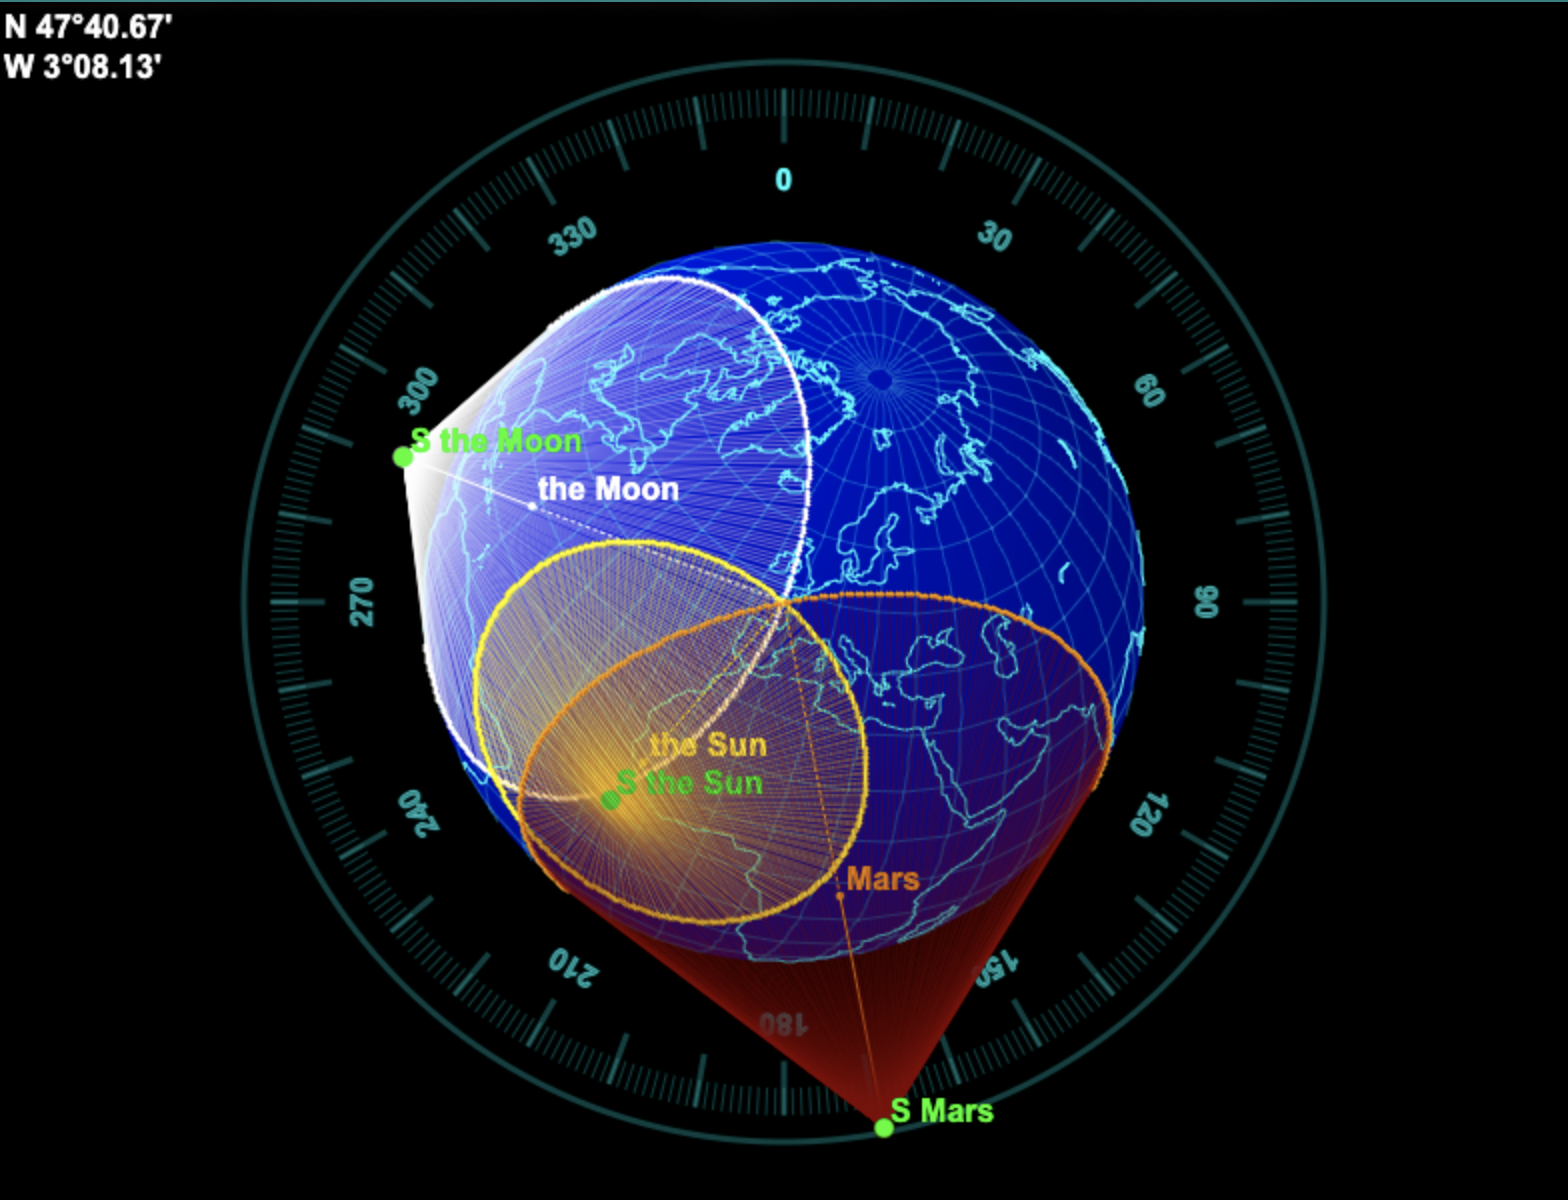
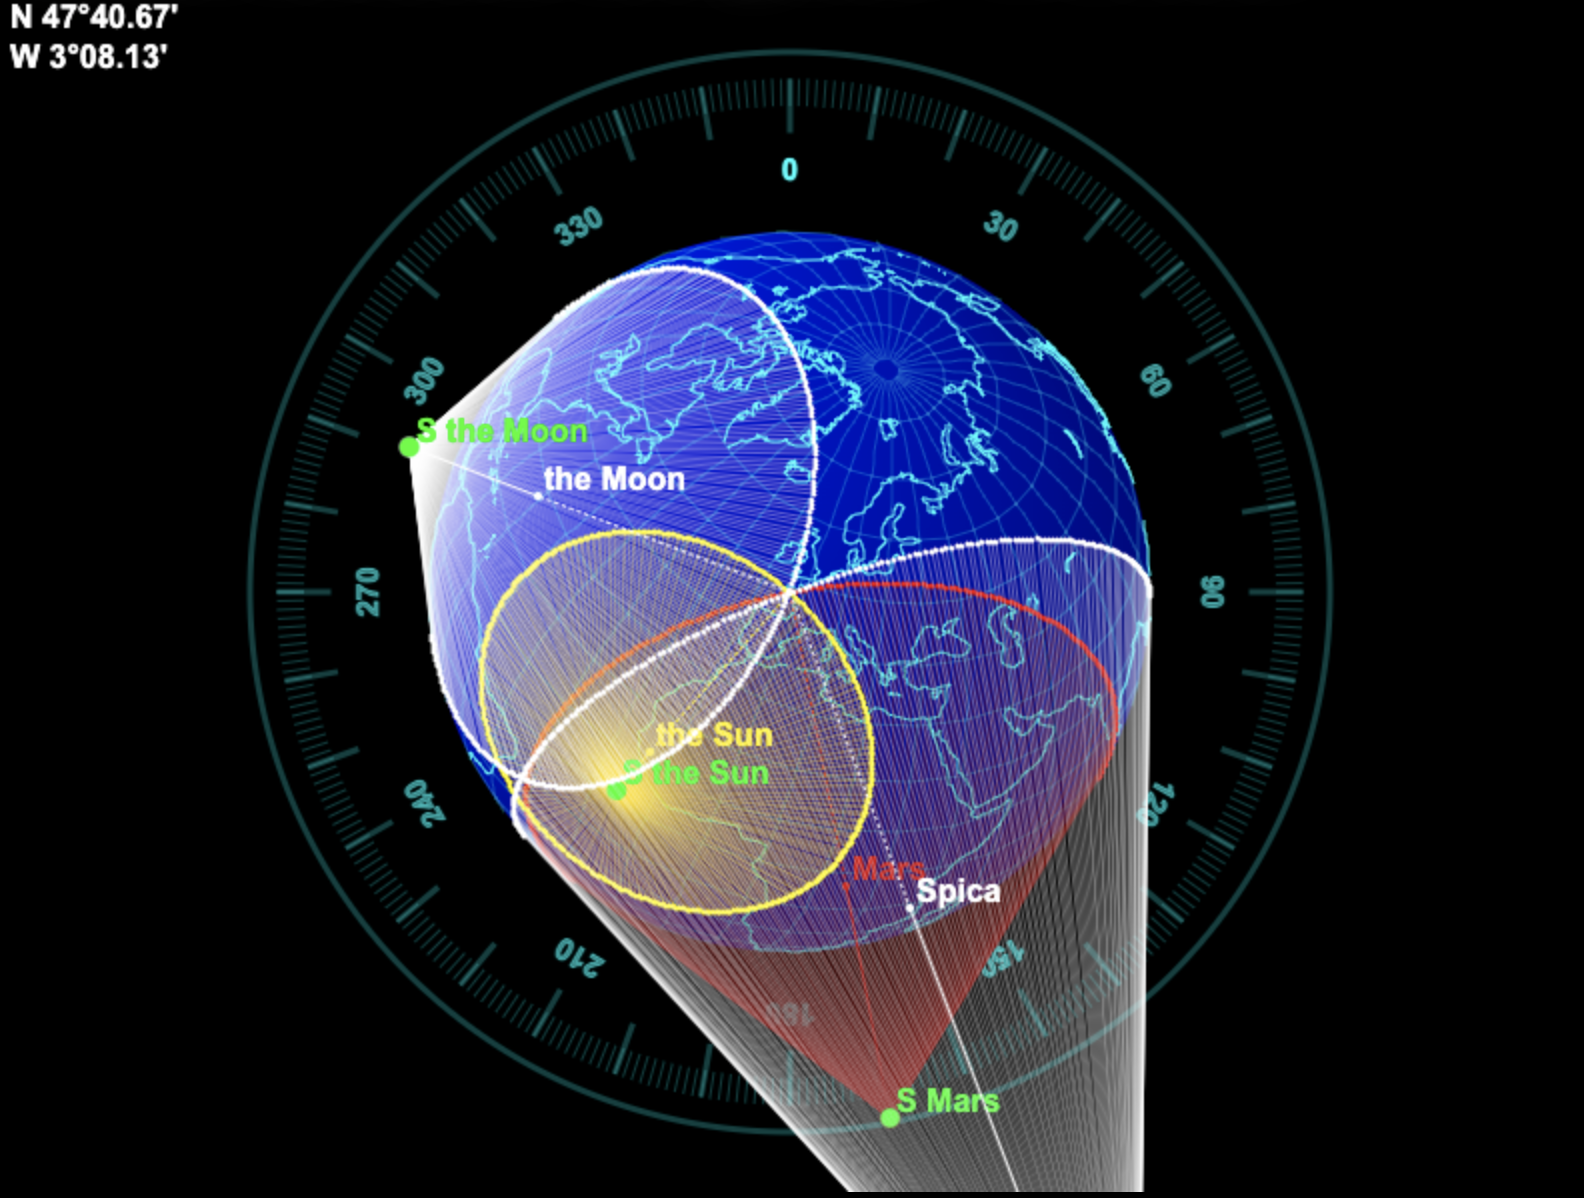
Added Anaximandre projection.

diff --git a/astro-computer/MPS/web/index.html b/astro-computer/MPS/web/index.html
@@ -486,6 +486,12 @@ let setUserPos = (lat, lng) => {
     // Set user position!!
     worldMapMercator.setUserPosition(userPos);
     worldMapMercator.repaint();
+
+    let worldMapAnaximandre = document.getElementById('world-map-03');
+
+    // Set user position!!
+    worldMapAnaximandre.setUserPosition(userPos);
+    worldMapAnaximandre.repaint();
 };
 
 let hidden = true;
@@ -1020,6 +1026,7 @@ let toggleForeground = () => {
                 "utc utc utc"
                 "solar solar solar"
                 "wm-m wm-m wm-m"
+                "wm-a wm-a wm-a"
                 "gl gl gl"
                 "gg gg gg"
                 "botton-padding botton-padding botton-padding";
@@ -1550,8 +1557,13 @@ let toggleForeground = () => {
     <div class="centered" style="grid-area: jumbos; width: 240px; border: 0px solid silver; border-radius: 5px;">
 
         <div style="margin-top: 50px; margin-bottom: 20px; font-weight: bold; color: rgba(0, 255, 255, 0.5);">MPS Data</div>
-        <div id="mps-data" class="result" style="font-size: 0.75em; text-align: left; min-height: 100px; border: 1px solid silver; border-radius: 5px; padding: 10px;"> <!--" font-family: 'Courier New', Courier, monospace; margin: 0 0 20px 0; width: 100%; overflow: auto;"> -->
-            MPS Data goes here...
+        <div id="mps-data-div" class="result" style="font-size: 0.75em; text-align: left; min-height: 100px; border: 1px solid silver; border-radius: 5px; padding: 10px; overflow: auto;">
+            <div id="mps-data" style="width: 400%;">
+                <ul>
+                    <li>MPS Data goes here...</li>
+                </ul>
+
+            </div>
         </div>
         <!-- MOON PHASE and TILT -->
         <moon-phase-2 id="moon-phase-01"
@@ -1658,11 +1670,27 @@ let toggleForeground = () => {
      | WORLD MAP BG. MERCATOR
      +-->
     <div id="world-map-mercator" style="grid-area: wm-m; text-align: center;">
+        <div style="font-weight: bold; color: rgba(0, 255, 255, 0.5); margin-top: 10px;">Mercator</div>
         <div class="centered" style="width: 100%; border: 0px solid silver; border-radius: 5px;">
             <world-map id="world-map-02"
                        class="worldmap-display-bg"
                        title="World Map&#13;Mercator"
                        projection="MERCATOR"
+                       width="800"
+                       height="700"></world-map>
+        </div>
+    </div>
+
+    <!--
+     | WORLD MAP BG. ANAXIMANDRE
+     +-->
+    <div id="world-map-anaximandre" style="grid-area: wm-a; text-align: center;">
+        <div style="font-weight: bold; color: rgba(0, 255, 255, 0.5); margin-top: 10px;">Anaximandre</div>
+        <div class="centered" style="width: 100%; border: 0px solid silver; border-radius: 5px;">
+            <world-map id="world-map-03"
+                       class="worldmap-display-bg"
+                       title="World Map&#13;Anaximandre"
+                       projection="ANAXIMANDRE"
                        width="800"
                        height="700"></world-map>
         </div>
@@ -2551,7 +2579,7 @@ let toggleForeground = () => {
                         plotCone(context, wm, 'yellow', 'rgba(255, 222, 33, 0.4)', doc);
                         // MSP Data
                         let before = mpsData.innerHTML;
-                        let newData = `<b>${latlngs.bodyName}</b>, Pg ${decToSex(latlngs.pg.latitude, "NS")} / ${decToSex(latlngs.pg.longitude, "EW")}, ` +
+                        let newData = `- <b>${latlngs.bodyName}</b>, Pg ${decToSex(latlngs.pg.latitude, "NS")} / ${decToSex(latlngs.pg.longitude, "EW")}, ` +
                                       `Obs Alt: ${decToSex(latlngs.obsAlt)}, at ${latlngs.observationTime}`;
                         if (before.length > 0) {
                             newData = before + '<br/>' + newData;
@@ -2589,7 +2617,7 @@ let toggleForeground = () => {
                         plotCone(context, wm, 'white', 'rgba(255, 255, 255, 0.4)', doc);
                         // MSP Data
                         let before = mpsData.innerHTML;
-                        let newData = `<b>${latlngs.bodyName}</b>, Pg ${decToSex(latlngs.pg.latitude, "NS")} / ${decToSex(latlngs.pg.longitude, "EW")}, ` +
+                        let newData = `- <b>${latlngs.bodyName}</b>, Pg ${decToSex(latlngs.pg.latitude, "NS")} / ${decToSex(latlngs.pg.longitude, "EW")}, ` +
                                       `Obs Alt: ${decToSex(latlngs.obsAlt)}, at ${latlngs.observationTime}`;
                         if (before.length > 0) {
                             newData = before + '<br/>' + newData;
@@ -2627,7 +2655,7 @@ let toggleForeground = () => {
                         plotCone(context, wm, 'lime', 'rgba(0, 255, 0, 0.4)', doc);
                         // MSP Data
                         let before = mpsData.innerHTML;
-                        let newData = `<b>${latlngs.bodyName}</b>, Pg ${decToSex(latlngs.pg.latitude, "NS")} / ${decToSex(latlngs.pg.longitude, "EW")}, ` +
+                        let newData = `- <b>${latlngs.bodyName}</b>, Pg ${decToSex(latlngs.pg.latitude, "NS")} / ${decToSex(latlngs.pg.longitude, "EW")}, ` +
                                       `Obs Alt: ${decToSex(latlngs.obsAlt)}, at ${latlngs.observationTime}`;
                         if (before.length > 0) {
                             newData = before + '<br/>' + newData;
@@ -2660,20 +2688,20 @@ let toggleForeground = () => {
                         console.log(`Path data loaded, ${doc.circle.length} elements`);
                         // Draw the data on the globe
                         // The circle (cone base)
-                        plotConeBase(context, wm, 'orange', latlngs);
+                        plotConeBase(context, wm, 'red', latlngs);
                         // The axis of the cone
-                        plotCone(context, wm, 'orange', 'rgba(128, 0, 0, 0.4)', doc);
+                        plotCone(context, wm, 'red', 'rgba(128, 0, 0, 0.4)', doc);
                         // MSP Data
                         let before = mpsData.innerHTML;
-                        let newData = `<b>${latlngs.bodyName}</b>, Pg ${decToSex(latlngs.pg.latitude, "NS")} / ${decToSex(latlngs.pg.longitude, "EW")}, ` +
+                        let newData = `- <b>${latlngs.bodyName}</b>, Pg ${decToSex(latlngs.pg.latitude, "NS")} / ${decToSex(latlngs.pg.longitude, "EW")}, ` +
                                       `Obs Alt: ${decToSex(latlngs.obsAlt)}, at ${latlngs.observationTime}`;
                         if (before.length > 0) {
                             newData = before + '<br/>' + newData;
                         }
                         mpsData.innerHTML = newData
                         // Graph(s)
-                        plotGraphLat('graph-01', 'orange', latlngs, graphDataLat);
-                        plotGraphLng('graph-02', 'orange', latlngs, graphDataLng);
+                        plotGraphLat('graph-01', 'red', latlngs, graphDataLat);
+                        plotGraphLng('graph-02', 'red', latlngs, graphDataLng);
                     });
                 },
                 (error, errmess) => {
@@ -2703,7 +2731,7 @@ let toggleForeground = () => {
                         plotCone(context, wm, 'blue', 'rgba(0, 0, 255, 0.4)', doc);
                         // MSP Data
                         let before = mpsData.innerHTML;
-                        let newData = `<b>${latlngs.bodyName}</b>, Pg ${decToSex(latlngs.pg.latitude, "NS")} / ${decToSex(latlngs.pg.longitude, "EW")}, ` +
+                        let newData = `- <b>${latlngs.bodyName}</b>, Pg ${decToSex(latlngs.pg.latitude, "NS")} / ${decToSex(latlngs.pg.longitude, "EW")}, ` +
                                       `Obs Alt: ${decToSex(latlngs.obsAlt)}, at ${latlngs.observationTime}`;
                         if (before.length > 0) {
                             newData = before + '<br/>' + newData;
@@ -2741,7 +2769,7 @@ let toggleForeground = () => {
                         plotCone(context, wm, 'white', 'rgba(255, 255, 255, 0.4)', doc);
                         // MSP Data
                         let before = mpsData.innerHTML;
-                        let newData = `<b>${latlngs.bodyName}</b>, Pg ${decToSex(latlngs.pg.latitude, "NS")} / ${decToSex(latlngs.pg.longitude, "EW")}, ` +
+                        let newData = `- <b>${latlngs.bodyName}</b>, Pg ${decToSex(latlngs.pg.latitude, "NS")} / ${decToSex(latlngs.pg.longitude, "EW")}, ` +
                                         `Obs Alt: ${decToSex(latlngs.obsAlt)}, at ${latlngs.observationTime}`;
                         if (before.length > 0) {
                             newData = before + '<br/>' + newData;
@@ -2779,7 +2807,7 @@ let toggleForeground = () => {
                         plotCone(context, wm, 'white', 'rgba(255, 255, 255, 0.4)', doc);
                         // MSP Data
                         let before = mpsData.innerHTML;
-                        let newData = `<b>${latlngs.bodyName}</b>, Pg ${decToSex(latlngs.pg.latitude, "NS")} / ${decToSex(latlngs.pg.longitude, "EW")}, ` +
+                        let newData = `- <b>${latlngs.bodyName}</b>, Pg ${decToSex(latlngs.pg.latitude, "NS")} / ${decToSex(latlngs.pg.longitude, "EW")}, ` +
                                         `Obs Alt: ${decToSex(latlngs.obsAlt)}, at ${latlngs.observationTime}`;
                         if (before.length > 0) {
                             newData = before + '<br/>' + newData;
@@ -2898,9 +2926,9 @@ let toggleForeground = () => {
                         console.log(`Mercator - Mars path data loaded, ${doc.circle.length} elements`);
                         // Draw the data on the globe
                         // The circle (cone base)
-                        plotConeBase(context, wm, 'orange', latlngs);
+                        plotConeBase(context, wm, 'red', latlngs);
                         // The axis of the cone
-                        plotCone(context, wm, 'orange', 'rgba(128, 0, 0, 0.4)', doc);
+                        plotCone(context, wm, 'red', 'rgba(128, 0, 0, 0.4)', doc);
                     });
                 },
                 (error, errmess) => {
@@ -2997,6 +3025,199 @@ let toggleForeground = () => {
                 });
         }
     }
+
+    let extraDrawingWorldMapAnaximandre = (wm, context) => {
+        // Sun
+        if (true) {
+            fetch('./json/the-Sun.json')
+                .then(response => {
+                    console.log(`Data Response: ${response.status} - ${response.statusText}`);
+                    response.json().then(doc => {
+                        latlngs = doc;
+                        console.log(`Mercator - Sun path data loaded, ${doc.circle.length} elements`);
+                        // Draw the data on the globe
+                        // The circle (cone base)
+                        plotConeBase(context, wm, 'yellow', latlngs);
+                        // The axis of the cone
+                        plotCone(context, wm, 'yellow', 'rgba(255, 222, 33, 0.4)', doc);
+                    });
+                },
+                (error, errmess) => {
+                    console.log("Ooch");
+                    let message;
+                    if (errmess) {
+                        let mess = JSON.parse(errmess);
+                        if (mess.message) {
+                            message = mess.message;
+                        }
+                    }
+                    console.debug("Failed to get Path data..." + (error ? JSON.stringify(error, null, 2) : ' - ') + ', ' + (message ? message : ' - '));
+                });
+        }
+        // Moon
+        if (true) {
+            fetch('./json/the-Moon.json')
+                .then(response => {
+                    console.log(`Data Response: ${response.status} - ${response.statusText}`);
+                    response.json().then(doc => {
+                        latlngs = doc;
+                        console.log(`Mercator - Moon path data loaded, ${doc.circle.length} elements`);
+                        // Draw the data on the globe
+                        // The circle (cone base)
+                        plotConeBase(context, wm, 'white', latlngs);
+                        // The axis of the cone
+                        plotCone(context, wm, 'white', 'rgba(255, 255, 255, 0.4)', doc);
+                    });
+                },
+                (error, errmess) => {
+                    console.log("Ooch");
+                    let message;
+                    if (errmess) {
+                        let mess = JSON.parse(errmess);
+                        if (mess.message) {
+                            message = mess.message;
+                        }
+                    }
+                    console.debug("Failed to get Path data..." + (error ? JSON.stringify(error, null, 2) : ' - ') + ', ' + (message ? message : ' - '));
+                });
+        }
+        // Venus
+        if (false) {
+            fetch('./json/Venus.json')
+                .then(response => {
+                    console.log(`Data Response: ${response.status} - ${response.statusText}`);
+                    response.json().then(doc => {
+                        latlngs = doc;
+                        console.log(`Mercator - Venus path data loaded, ${doc.circle.length} elements`);
+                        // Draw the data on the globe
+                        // The circle (cone base)
+                        plotConeBase(context, wm, 'lime', latlngs);
+                        // The axis of the cone
+                        plotCone(context, wm, 'lime', 'rgba(0, 255, 0, 0.4)', doc);
+                    });
+                },
+                (error, errmess) => {
+                    console.log("Ooch");
+                    let message;
+                    if (errmess) {
+                        let mess = JSON.parse(errmess);
+                        if (mess.message) {
+                            message = mess.message;
+                        }
+                    }
+                    console.debug("Failed to get Path data..." + (error ? JSON.stringify(error, null, 2) : ' - ') + ', ' + (message ? message : ' - '));
+                });
+        }
+        // Mars
+        if (true) {
+            fetch('./json/Mars.json')
+                .then(response => {
+                    console.log(`Data Response: ${response.status} - ${response.statusText}`);
+                    response.json().then(doc => {
+                        latlngs = doc;
+                        console.log(`Mercator - Mars path data loaded, ${doc.circle.length} elements`);
+                        // Draw the data on the globe
+                        // The circle (cone base)
+                        plotConeBase(context, wm, 'red', latlngs);
+                        // The axis of the cone
+                        plotCone(context, wm, 'red', 'rgba(128, 0, 0, 0.4)', doc);
+                    });
+                },
+                (error, errmess) => {
+                    console.log("Ooch");
+                    let message;
+                    if (errmess) {
+                        let mess = JSON.parse(errmess);
+                        if (mess.message) {
+                            message = mess.message;
+                        }
+                    }
+                    console.debug("Failed to get Path data..." + (error ? JSON.stringify(error, null, 2) : ' - ') + ', ' + (message ? message : ' - '));
+                });
+        }
+        // Jupiter
+        if (false) {
+            fetch('./json/Jupiter.json')
+                .then(response => {
+                    console.log(`Data Response: ${response.status} - ${response.statusText}`);
+                    response.json().then(doc => {
+                        latlngs = doc;
+                        console.log(`Mercator - Jupiter path data loaded, ${doc.circle.length} elements`);
+                        // Draw the data on the globe
+                        // The circle (cone base)
+                        plotConeBase(context, wm, 'blue', latlngs);
+                        // The axis of the cone
+                        plotCone(context, wm, 'blue', 'rgba(0, 0, 255, 0.4)', doc);
+                    });
+                },
+                (error, errmess) => {
+                    console.log("Ooch");
+                    let message;
+                    if (errmess) {
+                        let mess = JSON.parse(errmess);
+                        if (mess.message) {
+                            message = mess.message;
+                        }
+                    }
+                    console.debug("Failed to get Path data..." + (error ? JSON.stringify(error, null, 2) : ' - ') + ', ' + (message ? message : ' - '));
+                });
+        }
+        // Spica
+        if (true) {
+            fetch('./json/Spica.json')
+                .then(response => {
+                    console.log(`Data Response: ${response.status} - ${response.statusText}`);
+                    response.json().then(doc => {
+                        latlngs = doc;
+                        console.log(`Mercator - Spica path data loaded, ${doc.circle.length} elements`);
+                        // Draw the data on the globe
+                        // The circle (cone base)
+                        plotConeBase(context, wm, 'white', latlngs);
+                        // The axis of the cone
+                        plotCone(context, wm, 'white', 'rgba(255, 255, 255, 0.4)', doc);
+                    });
+                },
+                (error, errmess) => {
+                    console.log("Ooch");
+                    let message;
+                    if (errmess) {
+                        let mess = JSON.parse(errmess);
+                        if (mess.message) {
+                            message = mess.message;
+                        }
+                    }
+                    console.debug("Failed to get Path data..." + (error ? JSON.stringify(error, null, 2) : ' - ') + ', ' + (message ? message : ' - '));
+                });
+        }
+        // Denebola
+        if (false) {
+            fetch('./json/Denebola.json')
+                .then(response => {
+                    console.log(`Data Response: ${response.status} - ${response.statusText}`);
+                    response.json().then(doc => {
+                        latlngs = doc;
+                        console.log(`Mercator - Denebola path data loaded, ${doc.circle.length} elements`);
+                        // Draw the data on the globe
+                        // The circle (cone base)
+                        plotConeBase(context, wm, 'white', latlngs);
+                        // The axis of the cone
+                        plotCone(context, wm, 'white', 'rgba(255, 255, 255, 0.4)', doc);
+                    });
+                },
+                (error, errmess) => {
+                    console.log("Ooch");
+                    let message;
+                    if (errmess) {
+                        let mess = JSON.parse(errmess);
+                        if (mess.message) {
+                            message = mess.message;
+                        }
+                    }
+                    console.debug("Failed to get Path data..." + (error ? JSON.stringify(error, null, 2) : ' - ') + ', ' + (message ? message : ' - '));
+                });
+        }
+    }
+
 
     let isWithin90degrees = (userZ, bodyZ) => { // May need some tweaks...
         let rightLimit = (userZ + 90) % 360;
@@ -3128,6 +3349,7 @@ let toggleForeground = () => {
         document.getElementById("sun-path-01").setDoAfter(extraDrawingSunPath);
         document.getElementById("sky-map-01").setDoAfter(extraDrawingSkyMap);
         document.getElementById("world-map-02").setDoAfter(extraDrawingWorldMapMercator);
+        document.getElementById("world-map-03").setDoAfter(extraDrawingWorldMapAnaximandre);
 
         let hdgUpdater = window.setInterval(sensorUpdater, 1000); // Simulation
         let prmslData = window.setInterval(prmslUpdater, 2000);   // Simulation

diff --git a/astro-computer/MPS/README.md b/astro-computer/MPS/README.md
@@ -35,7 +35,7 @@ Avec plus d'un astre, la position de l'observateur - celle qu'on cherche - est &
 Voici la m&ecirc;me figure, d'un autre point de vue.  
 On note que les g&eacute;n&eacute;ratrices des c&ocirc;nes tangentent la Terre &agrave; la base du c&ocirc;ne, _sur_ le cercle d'&eacute;gales hauteurs.  
 
-![Context](03.png)
+![Context](02.png)
 
 L'&eacute;chelle des cartes pose ici un premier probl&egrave;me. Voici le contexte ci-dessus repr&eacute;sent&eacute; sur une carte 
 Mercator.  
@@ -43,7 +43,13 @@ Deux premiers &eacute;l&eacute;ments sont &agrave; noter :
 - Les cercles de hauteur ne sont pas ronds sur cette projection.
 - Ils peuvent &ecirc;tre &eacute;normes.
 
-![Context Mercator](02.png)
+Ils ne sont ronds ni sur une carte Mercator :
+![Context Mercator](03.png)
+
+Ni sur une carte Anaximandre :
+![Context Mercator](04.png)
+
+En fait, ils ne sont ronds que sur un globe.
 
 ## En pratique
 Vaste sujet... &Ccedil;a vient !
